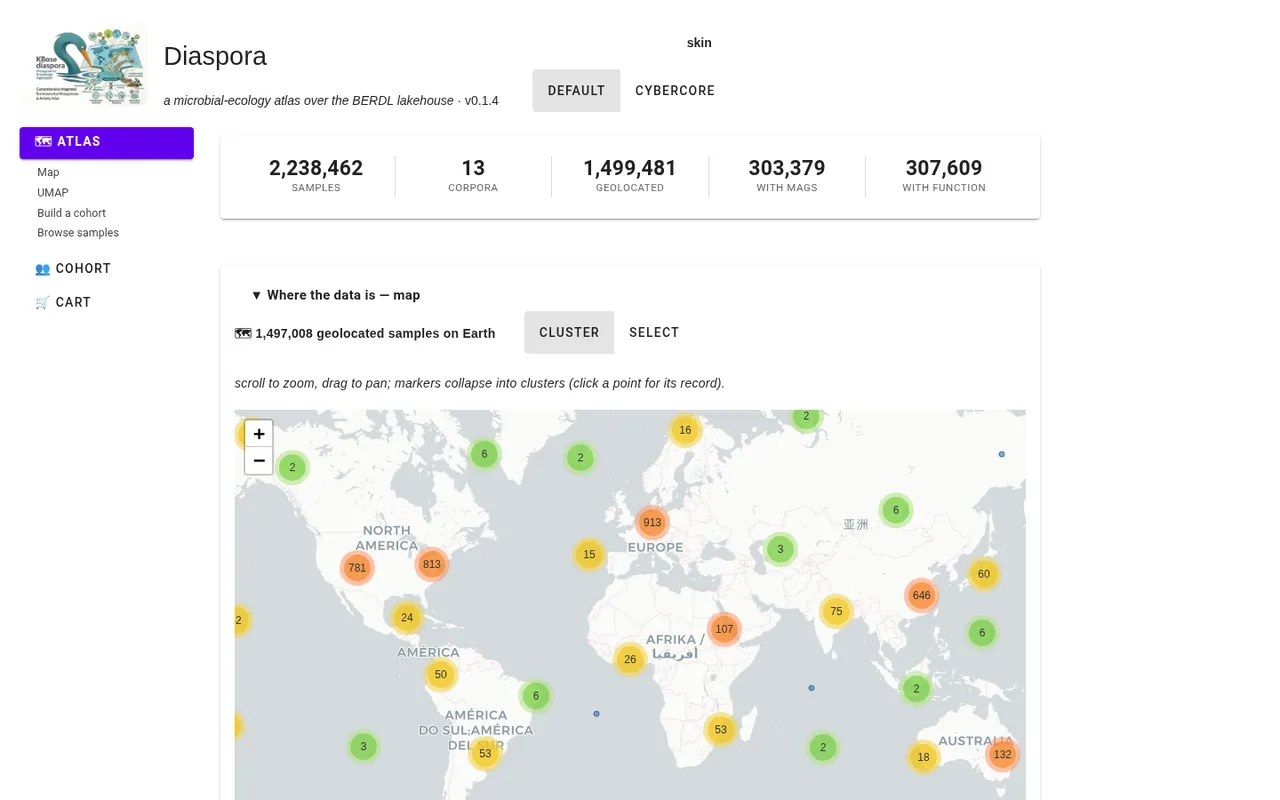
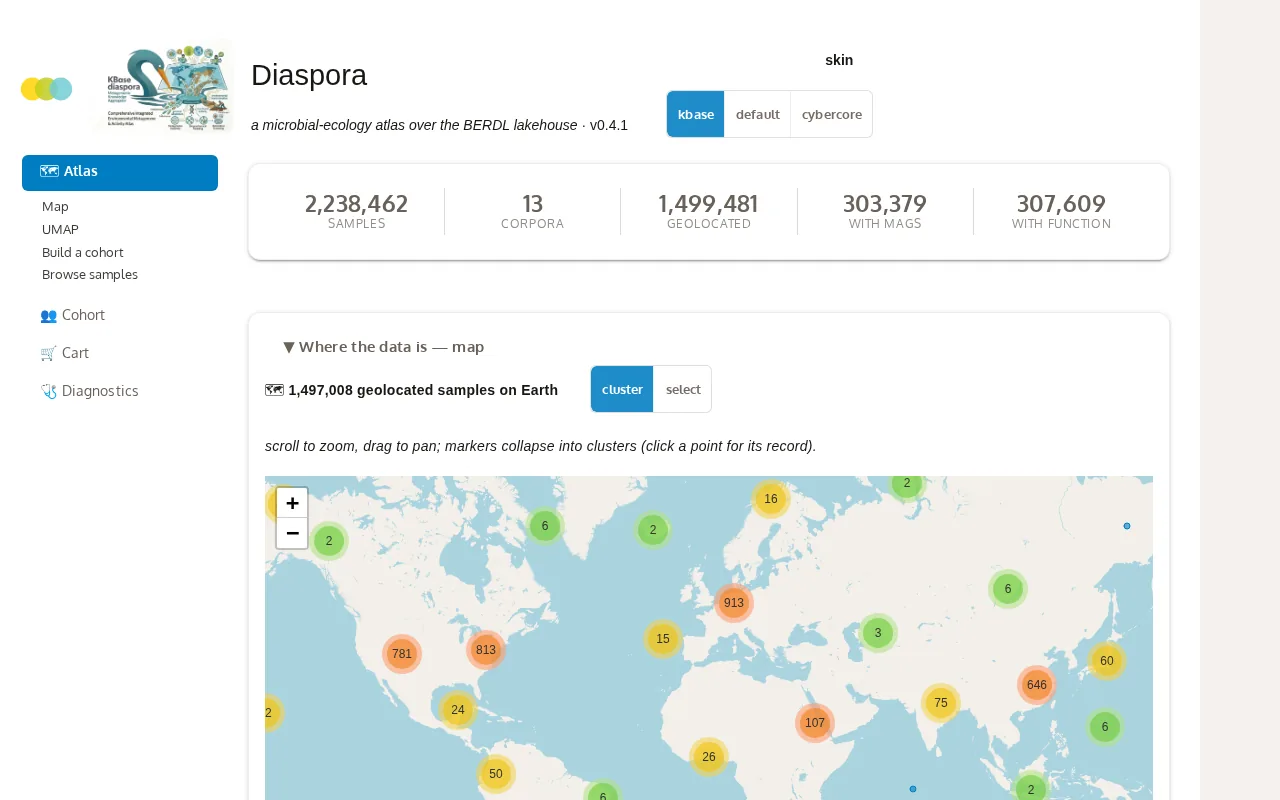
Every card says what its portal serves today, and five thumbnails show it
Versions and updated dates re-derived per the card rules: the printed
version where the portal is readable (function-junction v0.3.0 is behind
its v0.3.1 tag), the newest tag where it prints none (genknown, ideas) or
where a team-password gate now hides it (enigma-strata, pmi-understory,
phagecast, asma). Sources re-copied from the registries that moved:
fungal-jungle (TCDB out; fitness + HIP-HOP in) and diaspora (annotation,
trait, and environment layers in; KE-pangenome no longer credited).
Thumbnails recaptured from the live portals on their driven views; the
four gated portals keep their pre-gate captures.

diff --git a/src/routes/portals.tsx b/src/routes/portals.tsx
@@ -189,8 +189,8 @@ const DECLARED: readonly Portal[] = [
       'NMDC',
       'SPIRE / GBIF',
     ],
-    version: 'v0.2.0',
-    updated: '2026-08-21',
+    version: 'v0.3.0',
+    updated: '2026-08-31',
   },
   {
     slug: 'genknown',
@@ -216,8 +216,9 @@ const DECLARED: readonly Portal[] = [
       'NMDC',
       'GOLD',
     ],
-    version: 'v0.1.3',
-    updated: '2026-08-21',
+    // The deployed portal prints no version, so this is the newest tag.
+    version: 'v0.1.7',
+    updated: '2026-09-07',
   },
   {
     slug: 'fungal-jungle',
@@ -227,29 +228,31 @@ const DECLARED: readonly Portal[] = [
     section: 'kbase',
     facets: [FACETS.genomes, FACETS.ecology, FACETS.proteins],
     topics: ['Fungi', 'CAZymes', 'Structure'],
+    // src/fungal_jungle/sources.py
     sources: [
-      'Ensembl Fungi',
       'JGI MycoCosm',
+      'Ensembl Fungi',
+      'GBIF',
+      'CAZy',
+      'dbCAN',
+      'MEROPS',
+      'UniProt',
+      'InterPro',
+      'AlphaFold DB',
+      'FUNGuild',
+      'MIBiG',
+      'antiSMASH-DB',
+      'WorldClim v2',
+      'SoilGrids',
+      'Fungal Fitness Browser (RB-TnSeq)',
+      'Yeast HIP-HOP chemical genomics',
       'SGD',
       'PomBase',
       'CGD',
       'NCBI Datasets / Taxonomy',
-      'GBIF backbone',
-      'CAZy',
-      'dbCAN',
-      'MEROPS',
-      'TCDB',
-      'InterPro',
-      'MIBiG',
-      'antiSMASH-DB',
-      'FunGuild',
-      'AlphaFold DB',
-      'UniProt',
-      'WorldClim v2',
-      'SoilGrids',
     ],
-    version: 'v0.6.0',
-    updated: '2026-08-21',
+    version: 'v0.7.5',
+    updated: '2026-09-01',
   },
   {
     slug: 'plant-terra',
@@ -275,8 +278,8 @@ const DECLARED: readonly Portal[] = [
       'SSURGO',
       'GBIF',
     ],
-    version: 'v0.2.2',
-    updated: '2026-08-25',
+    version: 'v0.2.3',
+    updated: '2026-08-29',
   },
   {
     slug: 'diaspora',
@@ -286,23 +289,33 @@ const DECLARED: readonly Portal[] = [
     section: 'kbase',
     facets: [FACETS.ecology, FACETS.environment],
     topics: ['Metagenomics', 'Biogeography', 'Pangenomes'],
+    // src/diaspora/attribution.py
     sources: [
       'NMDC',
-      'NEON',
       'EMP',
-      'GROWdb (USGS)',
-      'PlanetMicrobe',
-      'agmicrobiome',
+      'Tara Oceans',
       'MGnify',
       'SPIRE',
-      'SMAG',
       'JGI-GEM',
-      'Tara Oceans',
       'Microbe Atlas',
-      'KBase KE-pangenome',
+      'SMAG',
+      'GROW (USGS)',
+      'PlanetMicrobe',
+      'agmicrobiome',
+      'NEON (via NMDC)',
+      'GTDB',
+      'eggNOG',
+      'KEGG',
+      'NCBI Taxonomy / BioSample / SRA',
+      'ENVO',
+      'Microbial trait tables (Madin · BactoTraits · metaTraits · FAPROTAX)',
+      'EarthEnv',
+      'CHELSA',
+      'Copernicus GLO-30 DEM',
+      'Google Earth Engine rasters (ERA5 · NDVI/EVI · soil)',
     ],
-    version: 'v0.2.0',
-    updated: '2026-08-21',
+    version: 'v0.4.1',
+    updated: '2026-09-07',
   },
   {
     slug: 'enigma-strata',
@@ -323,8 +336,10 @@ const DECLARED: readonly Portal[] = [
       'Web of Microbes',
       'NOAA GHCN-Daily',
     ],
-    version: 'v0.4.0',
-    updated: '2026-08-21',
+    // The deployed portal sits behind a team-password gate (2026-09), so its
+    // printed version is unreadable from outside; this is the newest tag.
+    version: 'v0.5.0',
+    updated: '2026-08-31',
   },
   {
     slug: 'pmi-understory',
@@ -351,9 +366,10 @@ const DECLARED: readonly Portal[] = [
       'GapMind',
       'NCBI Taxonomy / Datasets',
     ],
-    // The deployed portal prints no version, so this is the newest tag.
-    version: 'v0.2.2',
-    updated: '2026-08-26',
+    // The deployed portal sits behind a team-password gate (2026-09), so its
+    // printed version is unreadable from outside; this is the newest tag.
+    version: 'v0.3.2',
+    updated: '2026-09-01',
   },
   {
     slug: 'phagecast',
@@ -365,8 +381,10 @@ const DECLARED: readonly Portal[] = [
     topics: ['Phage', 'Host range', 'Receptors'],
     // No sources registry yet; these are from the README and docs/STORAGE.md.
     sources: ['Phage Foundry (DOE BER)', 'GenomeDepot'],
-    version: 'v0.46.0',
-    updated: '2026-08-24',
+    // The deployed portal sits behind a team-password gate (2026-09), so its
+    // printed version is unreadable from outside; this is the newest tag.
+    version: 'v0.48.0',
+    updated: '2026-09-04',
   },
   {
     slug: 'asma',
@@ -392,10 +410,10 @@ const DECLARED: readonly Portal[] = [
       'KEGG BRITE',
       'ModelSEED Biochemistry',
     ],
-    // The deployed portal prints no version, in its header or its footer, so
-    // this is the newest tag. release.yaml names v0.2.0, which is not tagged.
-    version: 'v0.1.0-review',
-    updated: '2026-09-02',
+    // The deployed portal sits behind a team-password gate (2026-09), so its
+    // printed version is unreadable from outside; this is the newest tag.
+    version: 'v0.3.0',
+    updated: '2026-09-07',
   },
   {
     // Repo and CLI are `ideas-portal`; the deployed path is /portals/ideas/.
@@ -410,8 +428,8 @@ const DECLARED: readonly Portal[] = [
     sources: ['IDEAS program (Argonne)', 'PubChem', 'UniProt', 'RCSB PDB'],
     // The deployed portal prints no app version (the "v1" it shows is the
     // dataset's), so this is the newest tag.
-    version: 'v0.1.4',
-    updated: '2026-08-25',
+    version: 'v0.1.7',
+    updated: '2026-09-01',
   },
 ];
 
